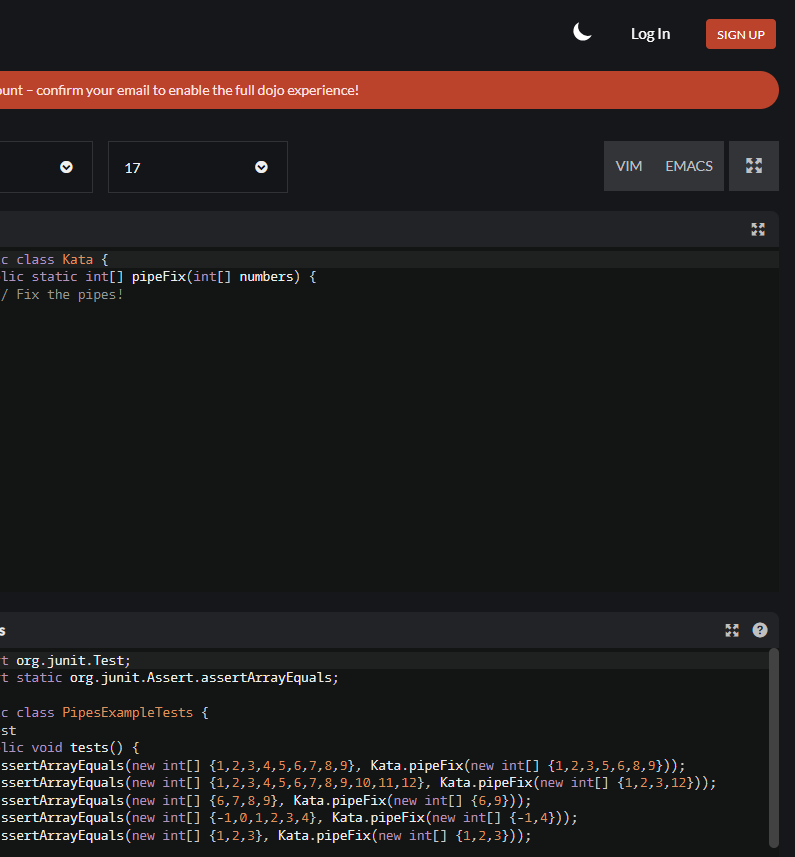
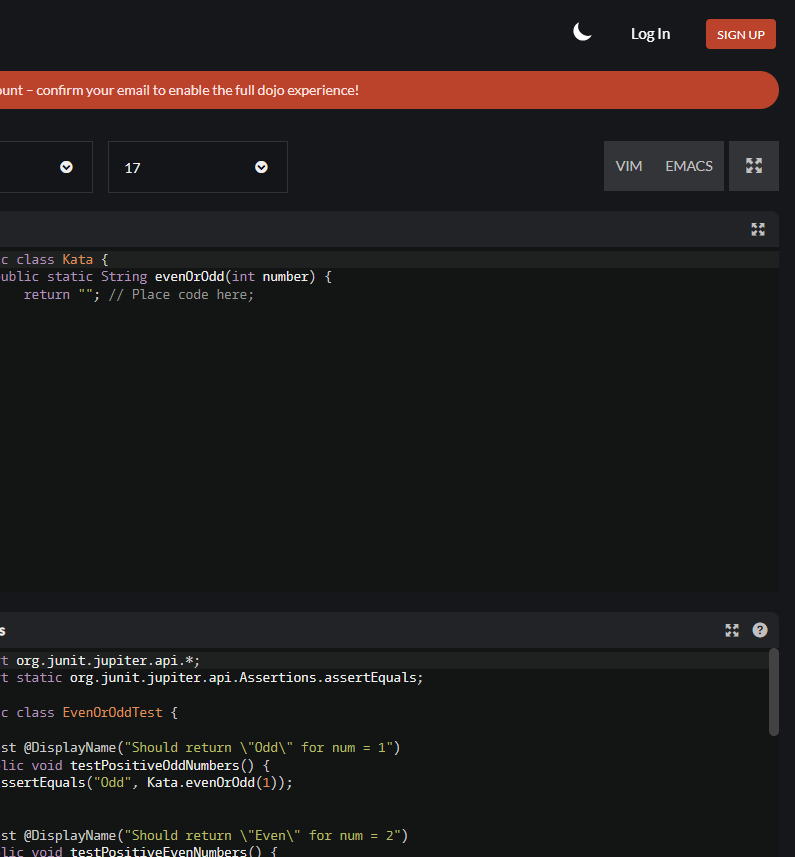
Bug fix with groovy namings

Changed region(s): [[0.0, 0.7585, 0.9057, 1.0], [0.0, 0.3034, 0.4226, 0.3641], [0.966, 0.8495, 0.9962, 1.0]]

diff --git a/src/service/CreatorService.java b/src/service/CreatorService.java
@@ -161,13 +161,18 @@ public class CreatorService {
                 }
             }
             case "groovy" -> {
-                solutionClass = new File(folder, javaGroovyClass.get(0) + ".groovy");
-                testClass = new File(folder, javaGroovyClass.get(1) + ".groovy");
+                String[] classAndTest = screenshotData.split("class");
+                String classString = classAndTest[1].substring(0, classAndTest[1].indexOf('{')).trim();
+                String testString = classAndTest[2].substring(0, classAndTest[2].indexOf('{')).trim();
+                solutionClass = new File(folder, classString + ".groovy");
+                testClass = new File(folder, testString + ".groovy");
                 try {
                     FileWriter createSolution = new FileWriter(solutionClass);
                     FileWriter createTest = new FileWriter(testClass);
-                    createSolution.write("package " + kyu + "." + title + ".groovy;\n\nclass " + javaGroovyClass.get(0) + " {\n\t// Solution\n}");
-                    createTest.write("package " + kyu + "." + title + ".groovy;\n\nclass " + javaGroovyClass.get(1) + " {\n\t// Tests\n}");
+                    createSolution.write("package " + kyu + "." + title + ".groovy;\n\nclass " + classString +
+                            " {\n\t// Solution\n}");
+                    createTest.write("package " + kyu + "." + title + ".groovy;\n\nclass " + testString +
+                            " {\n\t// Tests\n}");
                     createSolution.close();
                     createTest.close();
                 } catch (IOException e) {

diff --git a/src/CreatorRunner.java b/src/CreatorRunner.java
@@ -7,7 +7,7 @@ import service.CreatorService;
 public class CreatorRunner {
     public static void main(String[] args) {
         //Добавить в 'challenge' ID или название задачи
-        String challenge = "56b29582461215098d00000f";
+        String challenge = "53da3dbb4a5168369a0000fe";
         String urlApi = "https://www.codewars.com/api/v1/code-challenges/" + challenge;
         String screenshot = "https://www.codewars.com/kata/" + challenge + "/train/";
         CreatorService creatorService = new CreatorService();
